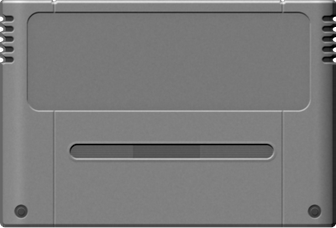
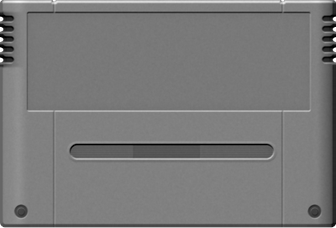
SNES PAL cart: square label well, left vents shaded like the right
Claude-Session: https://claude.ai/code/session_01Th8TUDMRNz4LjEMbhiKV7m

diff --git a/tools/carts/snes_pal_render.py b/tools/carts/snes_pal_render.py
@@ -90,7 +90,7 @@ for v in VENTS:
 vd = nd.distance_transform_edt(np.pad(vent, 1))[1:-1, 1:-1]
 height -= nd.gaussian_filter(vent.astype(np.float32), 0.5 * SS) * 3.0
 # the label recess: deep, with big rounded corners
-label = rect(0.081, 0.054, 0.923, 0.486, 0.036)  # concentric with the sticker's r10 (Roy's photo)
+label = rect(0.081, 0.054, 0.923, 0.486, 0.004)  # square corners; the sticker on it is round (Roy)
 height -= label * 2.0
 # the middle plate below the label and the side pieces either side; a fine seam marks the plate's
 # edges all the way up to the top rim (no step across the side pieces: Roy)
@@ -133,6 +133,10 @@ edge = (dist < 3 * SS) & (nd.gaussian_filter(vent.astype(np.float32), 1.5 * SS) 
 grey = np.where(edge & (dx > R), np.maximum(grey, 128 * 0.86), grey)
 # the notched side edges must not read as dark arcs around each vent
 grey = np.where((dist < 3 * SS) & (dx <= R), np.maximum(grey, 128 * 0.80), grey)
+# the left vents take the right ones' shading, mirrored, so both sides read the same (Roy)
+zone = np.clip((U(0.08) - xx) / U(0.02), 0, 1) * ((yy > V(VENTS[0] - 0.02)) & (yy < V(VENTS[-1] + VH + 0.02)))
+zone = nd.gaussian_filter(zone.astype(np.float32), SS)
+grey = grey * (1 - zone) + grey[:, ::-1] * zone
 A = save(grey3(grey), cart, 'snes_neutral.png')
 m = np.zeros((H, W, 4), np.uint8); m[..., :3] = 255; m[..., 3] = (A * 255).round().astype(np.uint8)
 Image.fromarray(m, 'RGBA').save(f'{out}/snes_cart.png')

diff --git a/tools/carts/snes_pal_edges.py b/tools/carts/snes_pal_edges.py
@@ -1,0 +1,25 @@
+"""Finish the PAL render for the firmware: pull the outline at the right, bottom and left ends down to the darkest edge pixel (no light rim, both sides alike), then scale to 336x228. Usage: snes_pal_edges.py RENDER_DIR"""
+import sys, numpy as np
+from PIL import Image
+def fix(src, dst, size):
+    im=np.asarray(Image.open(src).convert('RGBA')).astype(np.float32)
+    h,w=im.shape[:2]; a=im[...,3]
+    out=im.copy()
+    def run(get, n, length):
+        for i in range(n):
+            line=get(i)  # view of shape (length,4)
+            op=np.where(line[:,3]>0)[0]
+            if len(op)==0: continue
+            end=op[-1]; lo=max(op[0], end-6)
+            seg=line[lo:end+1,0]
+            k=lo+int(np.argmin(seg)); m=line[k,:3].copy()
+            for j in range(k+1,end+1):
+                line[j,:3]=np.minimum(line[j,:3], m)
+    run(lambda i: out[i,:,:], h, w)       # right edge
+    run(lambda i: out[:,i,:], w, h)       # bottom edge
+    run(lambda i: out[i,::-1,:], h, w)    # left edge, so it matches the right
+    img=Image.fromarray(out.clip(0,255).astype(np.uint8),'RGBA')
+    img.convert('RGBa').resize(size,Image.Resampling.LANCZOS).convert('RGBA').save(dst,optimize=True)
+P=sys.argv[1].rstrip('/')+'/'
+for part in ['neutral','clear']:
+    fix(P+'snes_%s.png'%part,'assets/snes_pal_%s.png'%part,(336,228))
